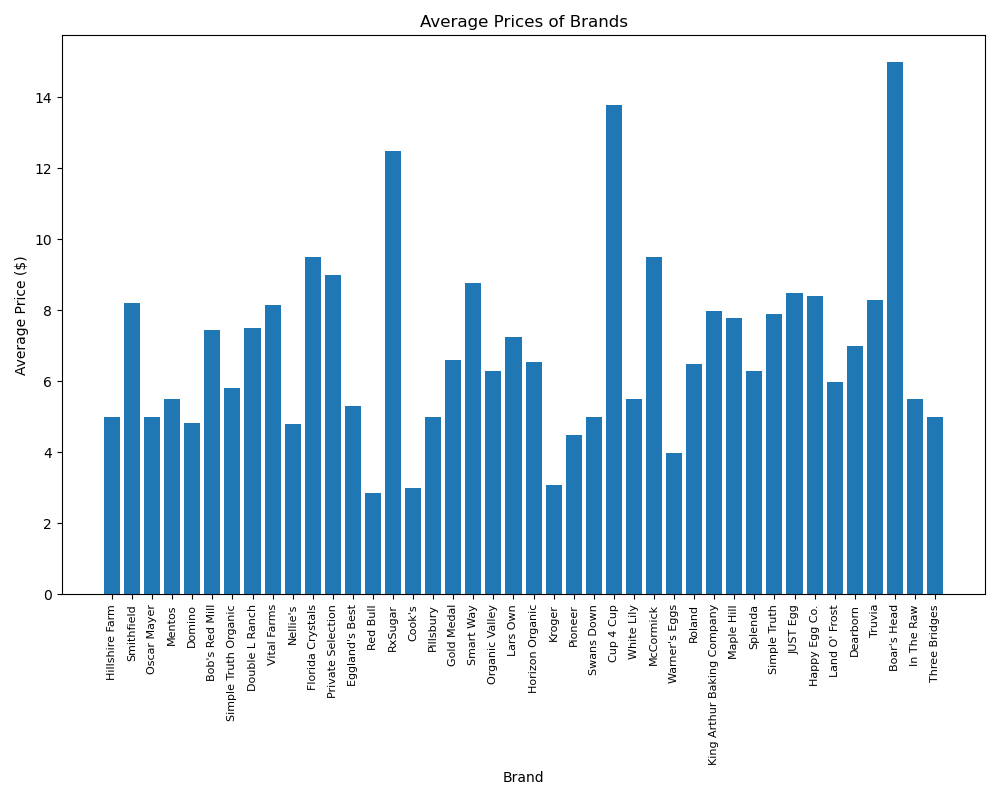
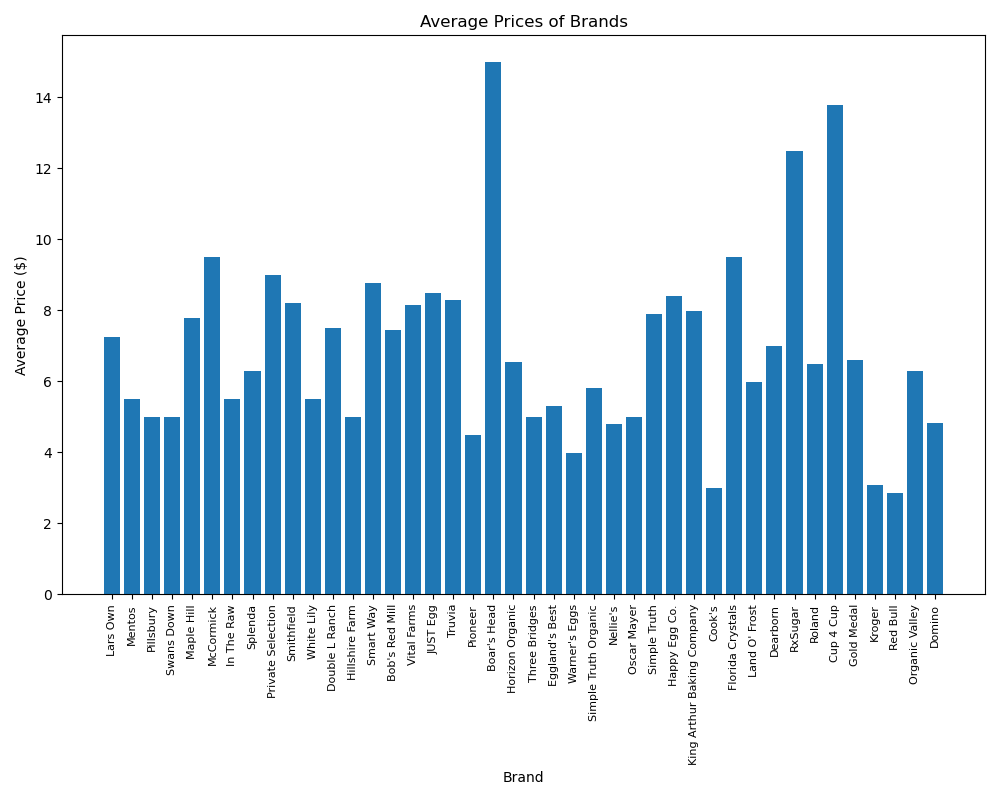
finished kroger graphs, added pie chart for stock

Changed region(s): [[0.155, 0.0625, 0.961, 0.625], [0.093, 0.75, 0.961, 0.9688], [0.093, 0.375, 0.155, 0.5312]]

diff --git a/visualizations.py b/visualizations.py
@@ -5,6 +5,7 @@ import matplotlib.pyplot as plt
 ## Fraction to account for items with fractions like 1/2 gallon
 from fractions import Fraction
 import random
+import sqlite3
 
 
 def price_per_unit():
@@ -92,6 +93,37 @@ def brand_avg_price():
     plt.close()
 
 
-
-
+def pie_inventory():
+    conn = get_conn()
+    cur = conn.cursor()
+    cur.execute("""SELECT stock_level, COUNT(*) as count
+                FROM items
+                WHERE stock_level IS NOT NULL
+                GROUP BY stock_level
+                """)
     
+    rows = cur.fetchall()
+    stock_list = []
+
+    if not rows:
+        print("Inventory data not found.")
+        return
+    labels = [row["stock_level"].replace('_', ' ').title() for row in rows]
+    count = [row["count"] for row in rows]
+
+    plt.figure(figsize=(10,8))
+    plt.pie(count, labels=labels, autopct='%1.1f%%', 
+            startangle=140, 
+            colors=['#66b3ff','#99ff99','#ffcc99'])
+    plt.title("Product Availability")
+    plt.axis('equal')
+    plt.savefig("inventory_pie.png")
+    plt.show()
+    plt.close()
+
+def make_kroger_graphs():
+    print("\nMaking Kroger Visualizations")
+    price_per_unit()
+    brand_avg_price()
+    pie_inventory()
+    print("Graphs Complete.\n")

diff --git a/main.py b/main.py
@@ -8,6 +8,7 @@ from calcs_and_sql import (
     save_price_hist,
     kroger_calculations
 )
+from visualizations import make_kroger_graphs
 
 import requests
 
@@ -63,6 +64,9 @@ def main():
     print(f"\nSixth: Run calculations")
     kroger_calculations()
     print(f"\nDone")
+
+    print()
+    make_kroger_graphs()
 
 if __name__ == "__main__":
     main()
